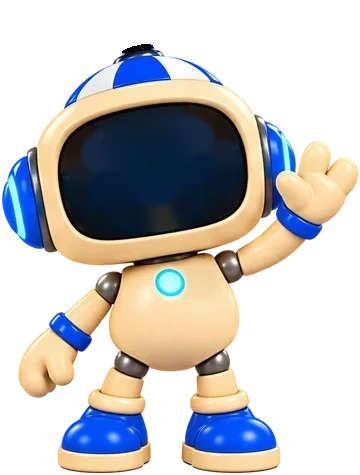
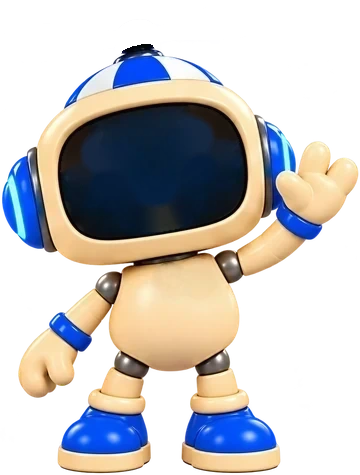
IAmiguinho sem a luz azul do peito, em todas as poses do site
A luz do peito ia parar em lugares diferentes conforme a pose. O novo
art/iamiguinho/apagar-luz.py acha a luz (disco azul-claro cercado de bege),
mede até onde vai o aro e preenche com o plástico em volta, sem emenda,
mantendo a sombra da cabeça e os braços. Vale para as imagens das poses e
para as camadas animadas (corpo). As caras não mudam.

Claude-Session: https://claude.ai/code/session_01EzS9DxgjdBzP7RojM8YLwB

Changed region(s): [[0.4278, 0.5305, 0.5194, 0.6484]]

diff --git a/art/iamiguinho/apagar-luz.py b/art/iamiguinho/apagar-luz.py
@@ -1,0 +1,90 @@
+# IAmiguinho: tira a luz azul do peito. Ela ia parar em lugares diferentes conforme a pose, então o peito fica liso,
+# da cor do corpo. Acha a luz do peito (o círculo azul-claro cercado de bege; a luz do rosto e os anéis dos fones têm
+# outra coisa em volta e ficam), apaga a luz e o aro e preenche com uma superfície suave (polinômio de grau 2 por canal)
+# ajustada no bege em volta, com o mesmo grão leve do plástico. Braços e juntas que passam por perto não são apagados.
+# Muda no lugar public/brand/iamiguinho/pose-*.webp e anim/pose-*-corpo.webp. Rodar de novo não muda nada.
+#   python3 art/iamiguinho/apagar-luz.py [nome ...]
+import os, sys, glob
+import numpy as np, cv2
+from PIL import Image
+
+ROOT = os.path.join(os.path.dirname(os.path.abspath(__file__)), '..', '..')
+PASTA = os.path.join(ROOT, 'public', 'brand', 'iamiguinho')
+nomes = sys.argv[1:] or None
+arquivos = sorted(glob.glob(os.path.join(PASTA, 'pose-*.webp')) + glob.glob(os.path.join(PASTA, 'anim', 'pose-*-corpo.webp')))
+
+for path in arquivos:
+    nome = os.path.basename(path)[:-5].replace('-corpo', '')
+    if nomes and nome not in nomes: continue
+    im = np.array(Image.open(path).convert('RGBA')); H, W = im.shape[:2]
+    rgb = np.ascontiguousarray(im[:, :, :3]).astype(float); a = im[:, :, 3]
+    hsv = cv2.cvtColor(im[:, :, :3].copy(), cv2.COLOR_RGB2HSV)
+    h, s, v = [hsv[:, :, i].astype(int) for i in range(3)]
+    beige = (a > 200) & (h >= 8) & (h <= 25) & (s > 30) & (s < 150) & (v > 130)
+    luz = (a > 200) & (h > 78) & (h < 102) & (s > 70) & (v > 170)
+    k, lab, st, cen = cv2.connectedComponentsWithStats(luz.astype(np.uint8), 8)
+    yy, xx = np.mgrid[0:H, 0:W]
+    melhor = None
+    for i in range(1, k):
+        r0 = max(st[i, 2], st[i, 3]) / 2
+        if st[i, 4] < 30 or not 5 <= r0 <= 22 or not 0.55 < st[i, 2] / max(1, st[i, 3]) < 1.8: continue
+        if st[i, 4] / (np.pi * r0 * r0) < 0.5: continue  # a luz do peito é um disco cheio (um olho em anel não é)
+        d = np.hypot(xx - cen[i][0], yy - cen[i][1])
+        cerca = beige[(d > r0 * 1.7) & (d < r0 * 2.6)].mean()
+        if cerca > 0.5 and (melhor is None or cerca > melhor[0]): melhor = (cerca, i, r0)
+    if not melhor: print(nome, os.path.basename(path), 'sem luz no peito'); continue
+    _, i, r = melhor; lx, ly = cen[i]
+    R = r * 1.55  # a luz, o brilho em volta e o aro escuro
+    d0 = np.hypot(xx - lx, yy - ly)
+    em_volta = beige & (d0 > R * 1.15) & (d0 < R * 2.6)
+    ys, xs = np.nonzero(em_volta)
+    def base(x, y):
+        x = (x - lx) / R; y = (y - ly) / R
+        return np.stack([np.ones_like(x), x, y, x * x, x * y, y * y], -1)
+    # Ajuste robusto: tira da conta o que destoa (sombra embaixo da cabeça, reflexo) e ajusta de novo.
+    B = base(xs.astype(float), ys.astype(float)); alvo = rgb[ys, xs]; ok = np.ones(len(xs), bool)
+    for _ in range(3):
+        coef, *_ = np.linalg.lstsq(B[ok], alvo[ok], rcond=None)
+        res = np.abs(B @ coef - alvo).sum(1); ok = res < max(6.0, 2.5 * res[ok].std())
+    liso = np.clip(base(xx.astype(float), yy.astype(float)) @ coef, 0, 255)
+    ys, xs = ys[ok], xs[ok]
+    # O grão do plástico: o resíduo do bege em volta, com a mesma força, para o remendo não ficar "pintado".
+    resid = (rgb[ys, xs] - liso[ys, xs]).std()
+    rng = np.random.default_rng(7)
+    grao = cv2.GaussianBlur(rng.normal(0, 1, (H, W)).astype(np.float32), (0, 0), 1.2)
+    grao = (grao / max(1e-6, grao.std()) * min(resid * 0.6, 1.4))[:, :, None]
+    # O buraco: a luz, o brilho e o aro escuro. O aro acaba onde a cor volta a ser a do plástico em volta (o "azul menos
+    # vermelho" de cada anel em volta, pela mediana, igual ao do bege mais longe); um pouco de folga para a borda.
+    br = rgb[:, :, 2] - rgb[:, :, 0]
+    longe = (d0 >= r * 1.6) & (d0 < r * 2.0) & (a > 200)
+    ref = np.median(br[longe])
+    fim = r * 1.4
+    for t in np.arange(r * 0.7, r * 1.6, 0.5):
+        anel = (d0 >= t) & (d0 < t + 1) & (a > 200)
+        if anel.sum() and abs(np.median(br[anel]) - ref) < 8: fim = t; break
+    fim += 1.5
+    buraco = (d0 < fim) & (a > 200)
+    # Preenche com o plástico liso mais a diferença suave da borda puxada para dentro (equação de Laplace, por
+    # iteração), para a emenda não aparecer.
+    res = rgb - liso
+    borda = cv2.dilate(buraco.astype(np.uint8), np.ones((3, 3), np.uint8)).astype(bool) & ~buraco
+    rb = res[borda]; med = np.median(rb, 0)
+    campo = np.where(buraco[:, :, None], med, res)
+    y0, y1 = max(0, int(ly - fim - 4)), min(H, int(ly + fim + 5)); x0, x1 = max(0, int(lx - fim - 4)), min(W, int(lx + fim + 5))
+    c = campo[y0:y1, x0:x1].copy(); m = buraco[y0:y1, x0:x1]
+    for _ in range(8000):
+        viz = (np.roll(c, 1, 0) + np.roll(c, -1, 0) + np.roll(c, 1, 1) + np.roll(c, -1, 1)) / 4
+        c[m] = viz[m]
+    # A sombra de outra peça que encosta na borda (embaixo da cabeça) entra só um pouquinho e some, como sombra de
+    # verdade: a parte mais escura que o normal decai com a distância da borda.
+    dist = cv2.distanceTransform(buraco.astype(np.uint8), cv2.DIST_L2, 3)
+    dd = dist[y0:y1, x0:x1][:, :, None]
+    escuro = np.minimum(c - med, 0)
+    c = np.where(m[:, :, None], c - escuro * (1 - np.exp(-np.maximum(dd - 0.5, 0) / 3.0)), c)
+    campo[y0:y1, x0:x1] = c
+    fundo = liso + campo
+    peso = np.clip(dist / 3.0, 0, 1)[:, :, None]
+    novo = np.where(buraco[:, :, None], np.clip(fundo + grao * peso, 0, 255), rgb).astype(np.uint8)
+    out = im.copy(); out[:, :, :3] = novo
+    Image.fromarray(out).save(path, quality=92)
+    print(nome, os.path.basename(path), f'luz em ({lx:.0f}, {ly:.0f}) r={r:.1f} aro até {fim:.1f} apagada')

diff --git a/art/iamiguinho/centralizar-luz.py b/art/iamiguinho/centralizar-luz.py
@@ -1,3 +1,4 @@
+# FORA DE USO (out/2026): a luz do peito saiu do personagem; o apagar-luz.py tira a luz de todas as poses.
 # IAmiguinho: a luz azul do peito fica no centro do tronco. Nas imagens geradas ela saiu deslocada para um lado; este
 # script acha a luz (o círculo azul-claro cercado de bege), apaga e redesenha no centro, na mesma altura. O centro de
 # cada pose foi medido uma a uma, ampliada com régua: o ponto médio entre as duas juntas dos ombros, conferido com o
